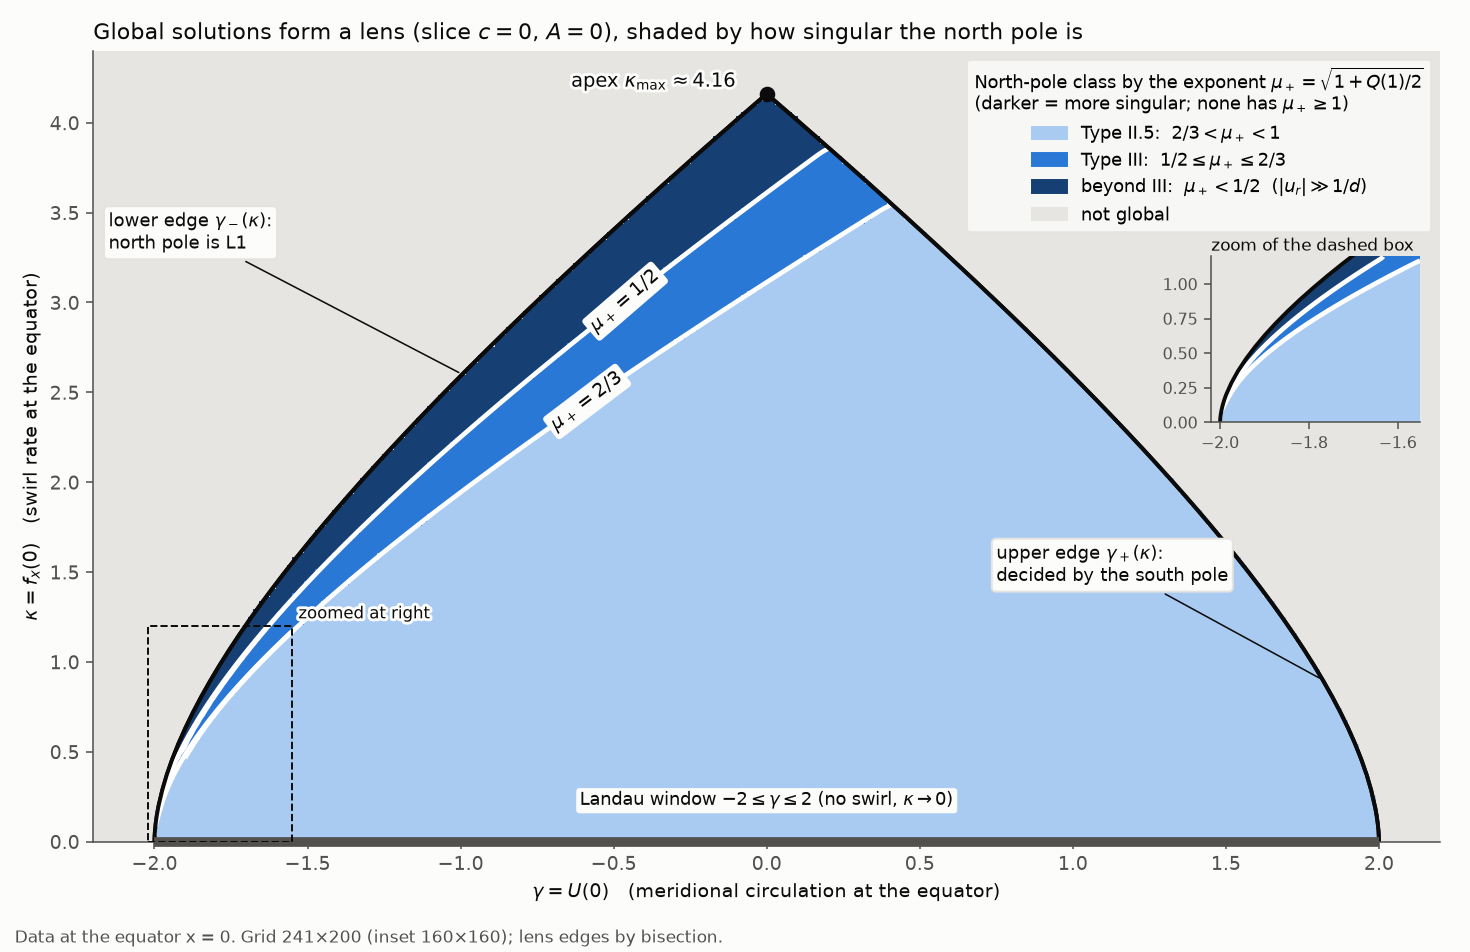
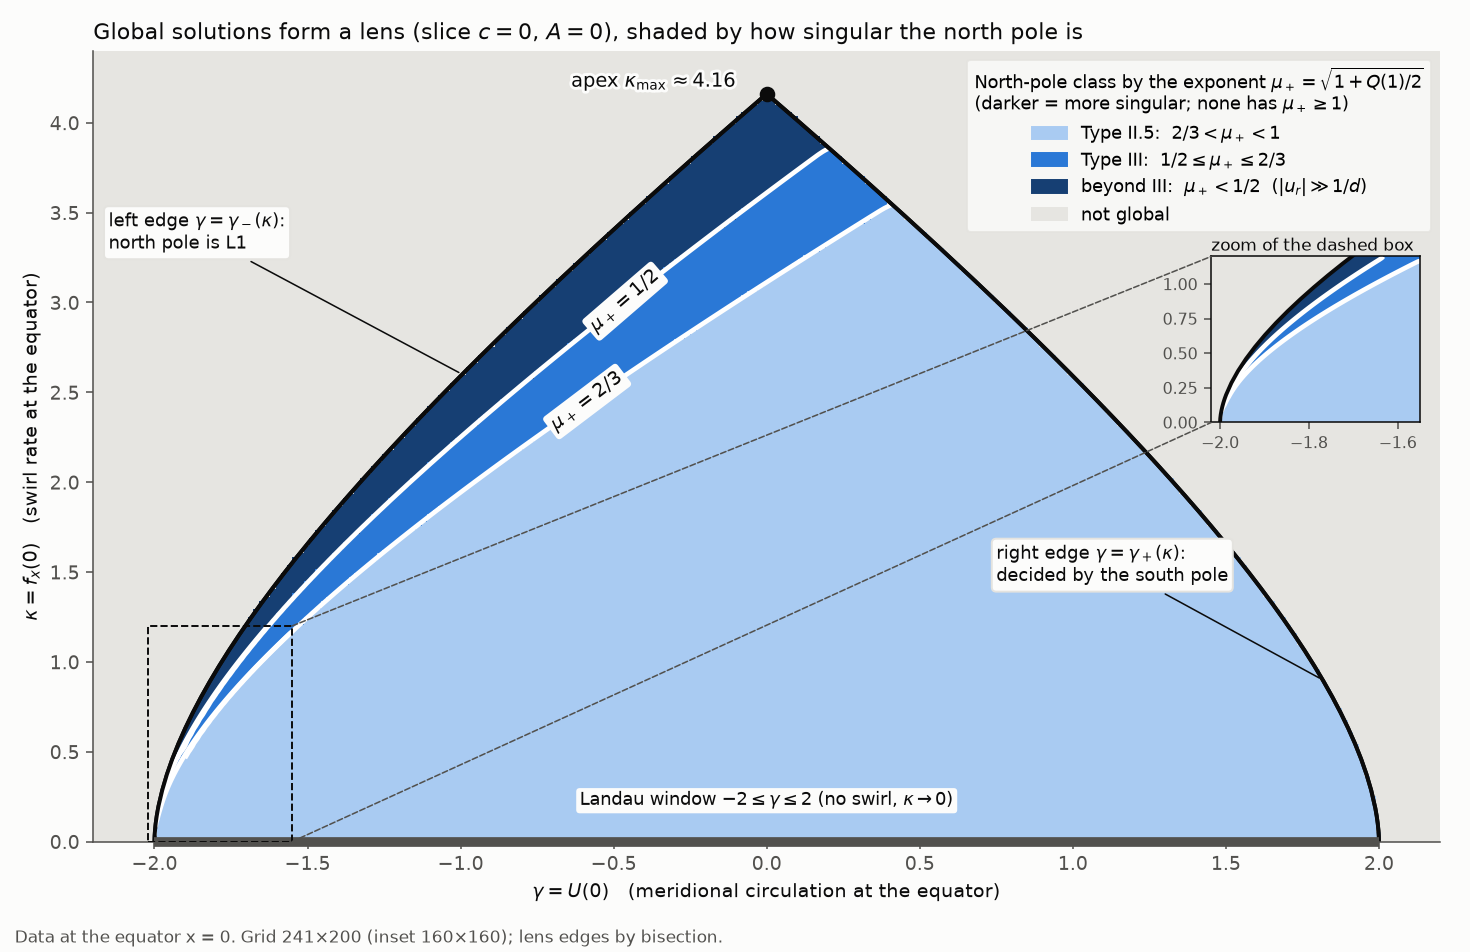
Figures: apply round-7 visual review fixes (final round)

diff --git a/scripts/make_m1_figures.py b/scripts/make_m1_figures.py
@@ -71,8 +71,8 @@ def fig_pole_types() -> str:
                         bbox=dict(boxstyle="round,pad=0.25", fc=SURF, ec=GRID),
                         arrowprops=dict(arrowstyle="-", color=INK2, lw=0.7))
         y = pr["U"][-1]
-        extra = "\n(reached only like 4/s)" if strat == "L1" else ""
-        ax.text(14.35, y, f"{name}\nU(1) = {d.U_lim:.3g}{extra}", fontsize=9, va="center", color=INK)
+        ax.text(14.35, y, f"{name}\nU(1) = {d.U_lim:.3g}".replace("-", "\u2212"), fontsize=9,
+                va="center", color=INK)
         ax.plot([14.05, 14.28], [y, y], color=col, lw=2.2, clip_on=False)
     ax.set_xlim(0, 14)
     ax.set_ylim(-2.6, -0.5)
@@ -82,7 +82,8 @@ def fig_pole_types() -> str:
     style = [Line2D([], [], color=INK2, lw=2.2, label="computed"),
              Line2D([], [], color=INK2, lw=1.1, ls=(0, (5, 3)), label="predicted limit U(1)"),
              Line2D([], [], color=INK2, lw=1.3, ls=":", label=r"L1 law $U \approx -2 + 4/s$")]
-    ax.legend(handles=style, loc="lower right", fontsize=8.5, frameon=True, facecolor=SURF, edgecolor=GRID)
+    ax.legend(handles=style, loc="center", bbox_to_anchor=(0.5, 0.3), fontsize=8.5, frameon=True,
+              facecolor=SURF, edgecolor=GRID)
     # ---------------------------------------------------------------- panel B: local exponent
     xi2 = np.linspace(np.log(2 / 0.03), 13.8, 700)        # d from 0.05 to 1e-6 (edge runs drift later)
     d_end = 1.0 / np.cosh(13.8)                              # = sin(theta) at the last sample
@@ -103,12 +104,13 @@ def fig_pole_types() -> str:
             how = r"from $1/(d^2\ln^2(1/d))$"
         else:
             pred = np.full_like(d, -4 * dfull.mu)
-            how = r"$-4\mu$ (derived here)"
+            how = r"$-4\mu$ (new, unproven)"
         bx.semilogx(d, pred, color=col, lw=1.2, ls=(0, (5, 3)), zorder=2)
         bx.semilogx(d, slope, color=col, lw=2.2, zorder=3)
         plateau = (d > 3e-6) & (d < 3e-5)
         y = float(np.median(slope[plateau]))
-        label_y[strat] = (y, f"{name.split(':')[0]}: exponent {y:.2f}\npredicted {np.median(pred[plateau]):.2f}, {how}", col)
+        txt = f"{name.split(':')[0]}: exponent {y:.2f}\npredicted {np.median(pred[plateau]):.2f}, "
+        label_y[strat] = (y, txt.replace("-", "\u2212") + how, col)
     # right-end labels, nudged apart vertically if they collide
     items = sorted(label_y.values(), key=lambda t: t[0])
     ys = [t[0] for t in items]
@@ -116,12 +118,12 @@ def fig_pole_types() -> str:
         ys[i] = max(ys[i], ys[i - 1] + 0.22)
     for (y0, txt, col), yt in zip(items, ys):
         bx.text(d_end * 0.62, yt, txt, fontsize=9, va="center", ha="left", color=INK)
-        bx.plot([d_end, d_end * 0.7], [y0, yt], color=col, lw=2.2, clip_on=False)
+        bx.plot([d_end * 0.85, d_end * 0.68], [yt, yt], color=col, lw=2.2, clip_on=False)
     bx.set_xlim(0.03, d_end)                                 # pole on the right, as in panel A
-    bx.set_ylim(-2.05, -0.5)
+    bx.set_ylim(-2.05, -0.6)
     bx.set_xlabel(r"$d = \sin\theta$, distance to the axis   (toward the axis $\rightarrow$)")
     bx.set_ylabel(r"local exponent $\;d\ln|u_r|\,/\,d\ln d$")
-    bx.set_title(r"B. The blow-up exponent of $u_r$ tends to the rate predicted by the pole type",
+    bx.set_title(r"B. The blow-up exponent of $u_r$ tends to the predicted rate   ($\mu = \sqrt{1+Q(1)/2}$)",
                  loc="left", fontsize=11, color=INK)
     style2 = [Line2D([], [], color=INK2, lw=2.2, label=r"computed  ($|u_r| \sim d^{\,\mathrm{exponent}}$)"),
               Line2D([], [], color=INK2, lw=1.2, ls=(0, (5, 3)), label="predicted exponent")]
@@ -210,8 +212,8 @@ def fig_lens_map() -> str:
             fontsize=9, color=INK, bbox=dict(boxstyle="round,pad=0.2", fc=SURF, ec="none"))
     ann = dict(fontsize=9.3, color=INK, bbox=dict(boxstyle="round,pad=0.25", fc=SURF, ec=GRID),
                arrowprops=dict(arrowstyle="-", color=INK, lw=0.8))
-    ax.annotate("lower edge $\\gamma_-(\\kappa)$:\nnorth pole is L1", xy=(float(np.interp(2.6, ks, gm)), 2.6), xytext=(-2.15, 3.3), **ann)
-    ax.annotate("upper edge $\\gamma_+(\\kappa)$:\ndecided by the south pole", xy=(float(-np.interp(0.9, ks, gm)), 0.9),
+    ax.annotate("left edge $\\gamma = \\gamma_-(\\kappa)$:\nnorth pole is L1", xy=(float(np.interp(2.6, ks, gm)), 2.6), xytext=(-2.15, 3.3), **ann)
+    ax.annotate("right edge $\\gamma = \\gamma_+(\\kappa)$:\ndecided by the south pole", xy=(float(-np.interp(0.9, ks, gm)), 0.9),
                 xytext=(0.75, 1.45), **ann)
     ax.set_xlim(-2.2, 2.2)
     ax.set_ylim(0, 4.4)
@@ -233,14 +235,21 @@ def fig_lens_map() -> str:
     _shade_lens(ax, xs2, ys2, masked_mu(res2, xs2, ys2), gm, ks, cols, smooth=1.5)
     ins = ax.inset_axes([0.83, 0.53, 0.155, 0.21])
     ins.grid(False)
-    _shade_lens(ins, xs2, ys2, masked_mu(res2, xs2, ys2), gm, ks, cols, smooth=1.5)
+    cs2 = _shade_lens(ins, xs2, ys2, masked_mu(res2, xs2, ys2), gm, ks, cols, smooth=1.5)
     ins.set_xlim(-2.02, -1.55)
     ins.set_ylim(0, 1.2)
     ins.tick_params(labelsize=8)
     ins.set_title("zoom of the dashed box", fontsize=8.5, color=INK, loc="left", pad=3)
+    for sp in ins.spines.values():
+        sp.set_visible(True)
+        sp.set_color(INK)
+    fig.canvas.draw()
+    from matplotlib.patches import ConnectionPatch
+    for (xa, ya), (xb, yb) in [((-1.55, 1.2), (0.0, 1.0)), ((-1.55, 0.0), (0.0, 0.0))]:
+        fig.add_artist(ConnectionPatch(xyA=(xa, ya), coordsA=ax.transData, xyB=(xb, yb),
+                                       coordsB=ins.transAxes, color=INK2, lw=0.8, ls="--"))
     from matplotlib.patches import Rectangle
     ax.add_patch(Rectangle((-2.02, 0.0), 0.47, 1.2, fill=False, ec=INK, lw=1.0, ls="--", zorder=7))
-    ax.text(-1.53, 1.22, "zoomed at right", fontsize=8.5, color=INK, va="bottom", path_effects=HALO)
     fig.text(0.01, 0.01, f"Data at the equator x = 0. Grid {spec.nx}×{spec.ny} (inset {spec2.nx}×{spec2.ny}); "
              "lens edges by bisection.", fontsize=8.5, color=INK2)
     fig.tight_layout(rect=(0, 0.03, 1, 1))
